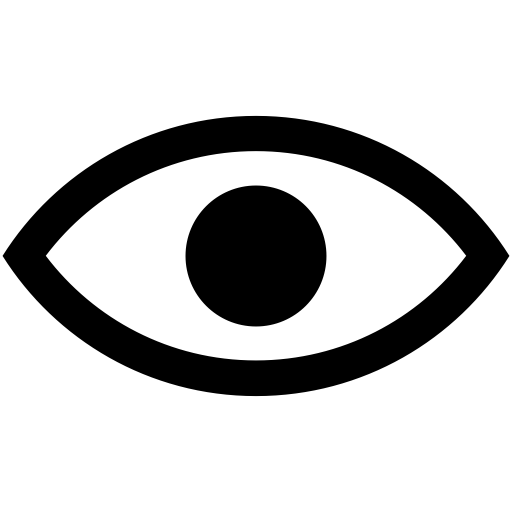
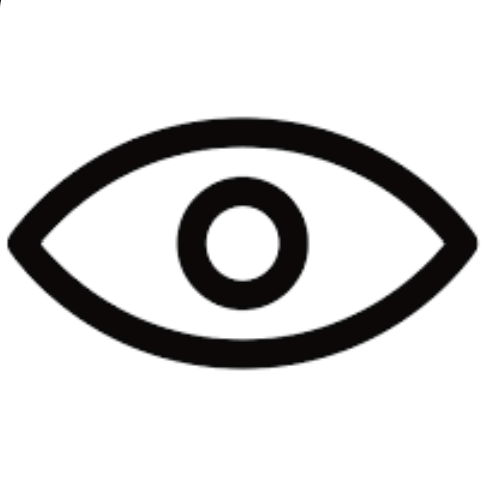
First Test
Code for the first test of the transmission.

diff --git a/FlipDisk/RS485Interface.py b/FlipDisk/RS485Interface.py
@@ -1,0 +1,75 @@
+# -*- coding: utf-8 -*-
+"""
+Created on Sun Nov 24 17:18:35 2024
+
+@author: bigfl
+"""
+import numpy as np
+import serial
+import RPi.GPIO as GPIO
+import PixelBoard as PB
+
+
+
+  
+    
+   
+ 
+
+class RS485Interface:
+
+    def __init__(self):
+
+        self.EN_485 =  4
+        GPIO.setmode(GPIO.BCM)
+        GPIO.setup(self.EN_485,GPIO.OUT)
+        GPIO.output(self.EN_485,GPIO.HIGH)
+        self.t = serial.Serial("/dev/ttyS0",115200)
+        print (self.t.portstr)
+    
+    def binary_to_hex_byte(self, binary_str):
+
+        """Convert an 8-bit binary string to a bytes object."""
+        if len(binary_str) != 8 or not all(bit in '01' for bit in binary_str):
+            raise ValueError("Input must be an 8-bit binary string")
+        print(bytes([int(binary_str, 2)]))
+        return bytes([int(binary_str, 2)])
+
+    def getSerial(self,vBoard, command):
+        serialArr=list()
+        for x in range(0, vBoard.PANEL_NUM):
+            serialArr.append(b'x80') 
+        match command:
+        
+            #send update to all panels to refresh
+            case 1:
+                for x in range(0, vBoard.PANEL_NUM):
+                    serialArr[x]+=b'\x82\x8F'
+                return serialArr
+             
+            # update panel values but dont refresh
+            case 2:
+                for x in range(0, vBoard.PANEL_NUM):
+                    serialArr[x]+=b'\x83'
+                    serialArr[x]+=(x+1).to_bytes(1, byteorder='big')
+
+                    
+            #update panel values and refresh immediately
+            case 3:
+                for x in range(0, vBoard.PANEL_NUM):
+                    serialArr[x]+=b'\x84'
+            case _:
+                print("invalid command")
+                
+        for y in range(0, len(serialArr)):
+            binString=''
+            for i in range(0,28):
+                binString = str(vBoard.board[i,y*7+0])+str(vBoard.board[i,y*7+1])+str(vBoard.board[i,y*7+2])+str(vBoard.board[i,y*7+3])+str(vBoard.board[i,y*7+4])+str(vBoard.board[i,y*7+5])+str(vBoard.board[i,y*7+6])+'0'
+                serialArr[y]+=self.binary_to_hex_byte(binString)
+            serialArr[y]+=b'\x8F'
+        return serialArr
+    
+    def sendMessage(self, byteArr):
+        for x in range(1, len(byteArr)):
+           self.t.write(byteArr[x])
+           print(x)

diff --git a/FlipDisk/PixelBoard.py b/FlipDisk/PixelBoard.py
@@ -8,23 +8,37 @@ import numpy as np
 import matplotlib.pyplot as plt
 import cv2
 from PIL import Image, ImageEnhance
+import RS485Interface as ser
 
-
+#virtual pixelboard
 class PixelBoard:
+
     def __init__(self, width, height):
         self.width = width
         self.height = height
-        self.board = np.zeros((height, width, 3), dtype=np.uint8)
+        self.board = np.zeros((height, width), dtype=np.uint8)
+        self.FRAME_START = 0x80
+        self.CMD_REFRESH_ALL_DISPLAYS = 0x82  # Commit buffers on all panels
+        self.CMD_SEND_AND_REFRESH = 0x83      # Write buffer to a panel and commit immediately
+        self.CMD_SEND_NO_REFRESH = 0x84       # Write buffer to a panel, but don't commit until we send the refresh command (useful for painting all displays at the same time)
+        self.FRAME_END = 0x8F
+        self.PANEL_NUM = 4
+        self.rs485 = ser.RS485Interface()
+        
+        # Max number of data bytes to be sent for 28x7 controller
+        DATA_BYTES = 28
+        # Max size of a frame that holds a command for a 28x7 controller
+        CMD_FRAME_SIZE = 32
 
-    def renderImage(self, image):
+    def loadImage(self, image):
         array=np.array(image)
         if(not np.shape(array)==np.shape(image)):
             print("warning")
             return;
         for x in range(0,self.width):
-            for y in range(0,self.width):
+            for y in range(0,self.height):
                 if(array[y,x]>0):
-                    self.set_pixel(x, y, (255,255,255))
+                    self.set_pixel(x, y, 1)
                 
     def set_pixel(self, x, y, color):
         if 0 <= x < self.width and 0 <= y < self.height:
@@ -33,14 +47,23 @@ class PixelBoard:
     def clear(self):
         self.board.fill(0)
 
-    def display(self):
+    def PlotLocal(self):
         plt.imshow(self.board)
         plt.axis('off')
         plt.show()
     
     def getSize(self):
         return (self.width, self.height)
-    
+   
+    def publishImage(self):
+        serialMessage = self.rs485.getSerial(self,2)
+        print(serialMessage)
+        #self.rs485.sendMessage(serialMessage)
+        
+    def refreshDisplay(self):
+        serialMessage = self.rs485.getSerial(self,1)
+        print(serialMessage)
+        #self.rs485.sendMessage(serialMessage)
 
                 
             

diff --git a/FlipDisk/FlipDisk.py b/FlipDisk/FlipDisk.py
@@ -10,12 +10,15 @@ boardSize = (28, 28)
 board = PixelBoard.PixelBoard(boardSize[0],boardSize[1])
 
 #load file
-file = "TestImages/fist.png"
+file = "TestImages/eye.png"
 img = Image.open(file)
 
 #process
 img=FDProcessing.SimpleBW(img, boardSize)
 
 # Display the board
-board.renderImage(img)
-board.display()
+board.loadImage(img)
+board.PlotLocal()
+board.publishImage()
+board.refreshDisplay()
+

diff --git a/FlipDisk/receive.py b/FlipDisk/receive.py
@@ -1,0 +1,14 @@
+# -*- coding:utf-8 -*-
+import RPi.GPIO as GPIO
+import serial
+
+EN_485 =  4
+GPIO.setmode(GPIO.BCM)
+GPIO.setup(EN_485,GPIO.OUT)
+GPIO.output(EN_485,GPIO.LOW)
+
+ser = serial.Serial("/dev/ttyS0",115200,timeout=1)  # open first serial port    
+while 1:  
+    str = ser.readall()  
+    if str:  
+        print (str) 
